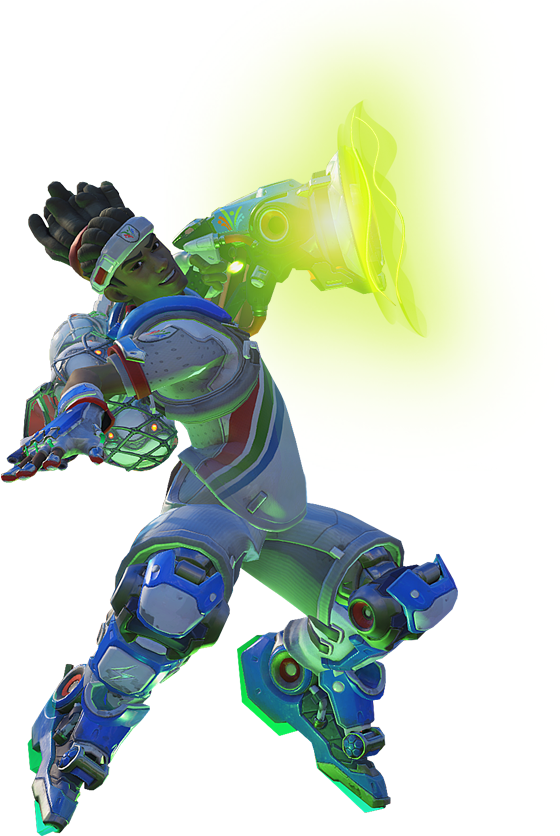
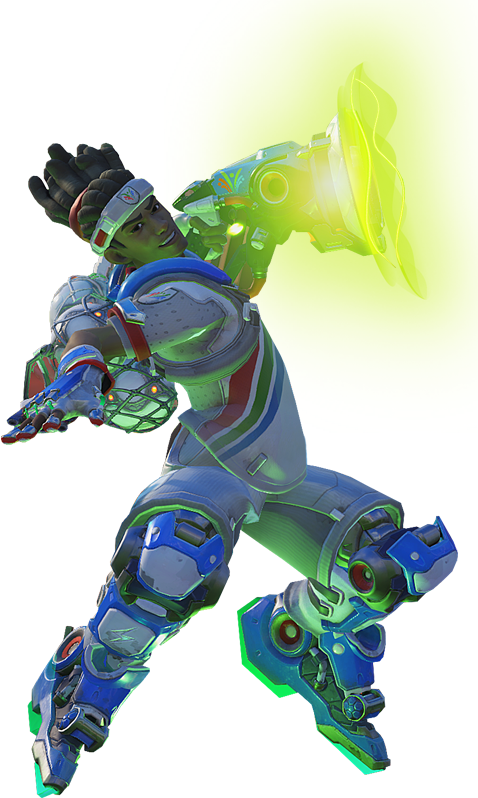
add h2, p into html section summer game, add link to official site, modification css h2,p and picture lucio position, size and font

diff --git a/style.css b/style.css
@@ -563,14 +563,38 @@ button:focus {
     position: absolute;
     bottom: -298%;
     left: 36%;
-    width: 25%;
+    width: 21%;
 }
 
 .ball-sg {
     position: absolute;
-    bottom: -295%;
-    right: 30%;
-    width: 12%;
+    bottom: -297%;
+    right: 33%;
+    width: 11%;
+}
+
+.h2-sg {
+    position: absolute;
+    top: 303%;
+    left: 33%;
+    font-size: 3.5vw;
+    text-align: center;
+    color: #79c843;
+    text-shadow: 5px 5px 5px rgb(0, 0, 0), 0 0 .5em darkviolet, 0 0 0.5em darkviolet;
+    letter-spacing: .5vw;
+}
+
+.p-sg {
+    font-size: 1.7vw;
+    position: absolute;
+    top: 313%;
+    left: 22%;
+    width: 35%;
+    text-align: center;
+    font-weight: bold;
+    color: #79c843;
+    text-shadow: 3px 3px 3px rgb(0, 0, 0), 0 0 .5em black, 0 0 .5em black;
+    letter-spacing: .3vw;
 }
 
 /*------------------------------------Jeux-------------------*/

diff --git a/index.html b/index.html
@@ -104,9 +104,12 @@
 
             <!---------------------------------------------SECTION SUMMER GAME-------------------------------------->
             <section>
-                <h2></h2>
+                <h2 class="h2-sg">LÚCIOBALL</h2>
+                <p class="p-sg">Le football futuriste d'Overwatch,<br> 2 équipes de 3 joueurs, 2 buts.<br>
+                    L'équipe qui marque le plus de Goal!<br> à la fin du temps imparti gagne le match.<br>
+                    <a href='https://playoverwatch.com/fr-fr/events/summer-games'>Tous savoir ici !</a>
+                </p>
             </section>
-
             <figure id="summer-game">
                 <img src="assets/picture/Summer-Game/fond-sg1.jpg" alt="backgound summer game" class="img-sg">
                 <img src="assets/picture/Summer-Game/reinhardt-sg.png" alt="reinhardt picture" class="reinhardt-sg">
